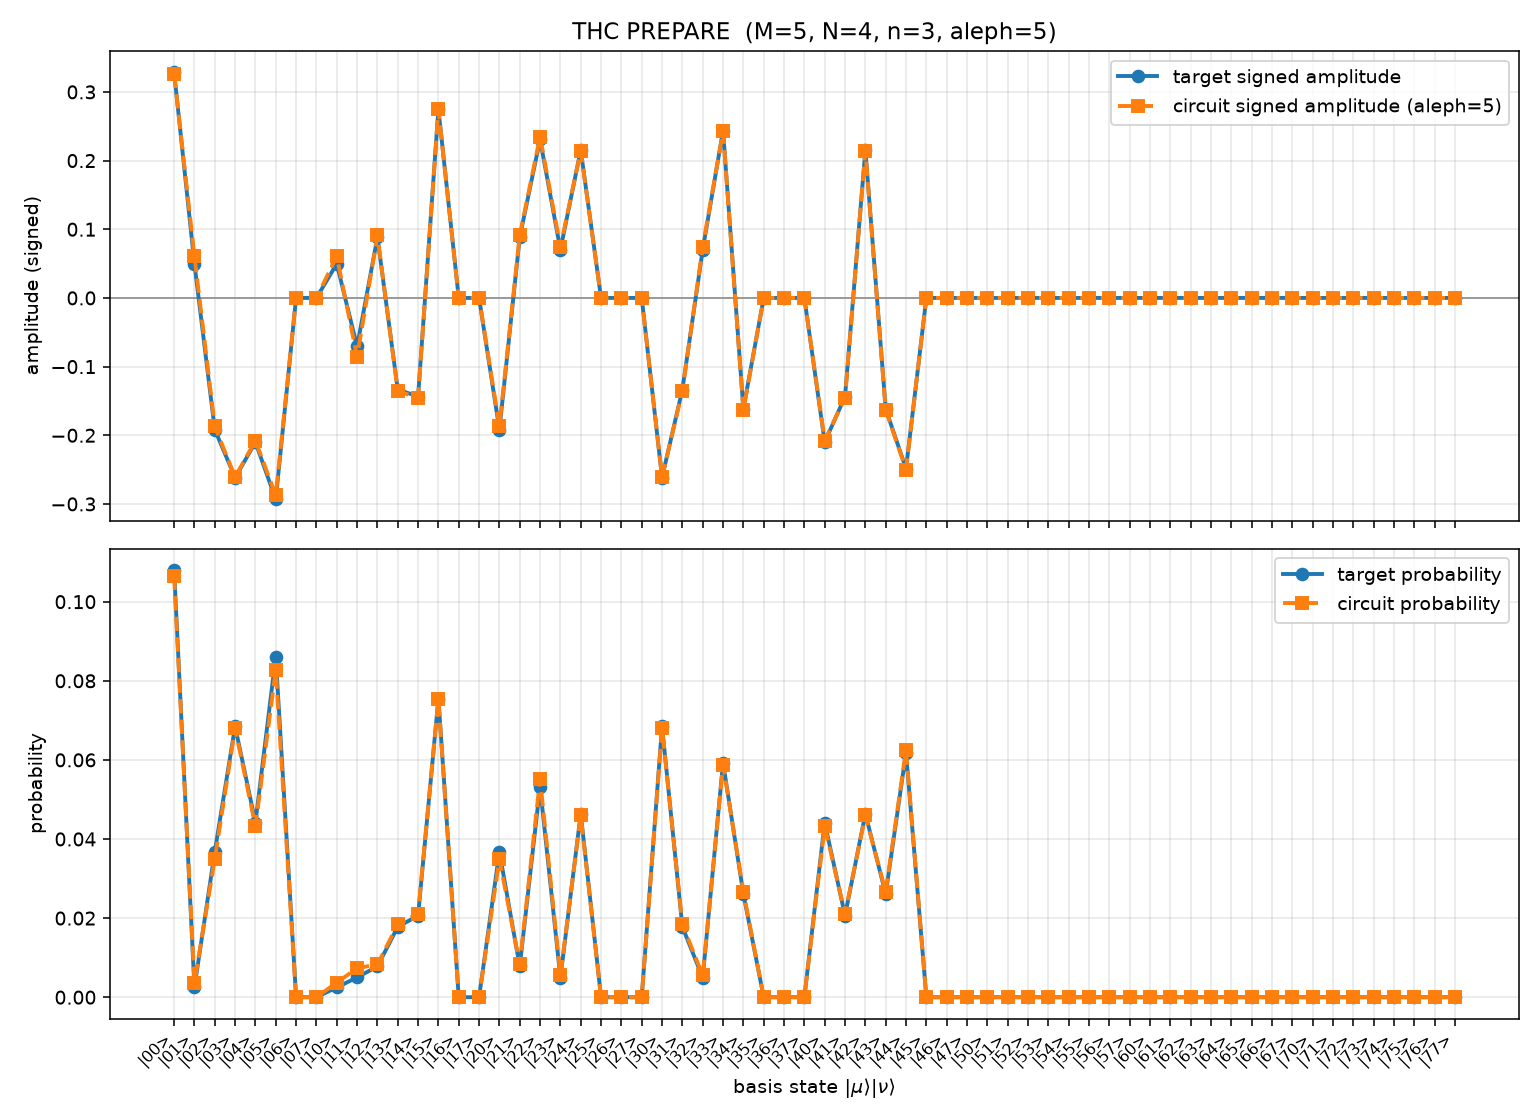
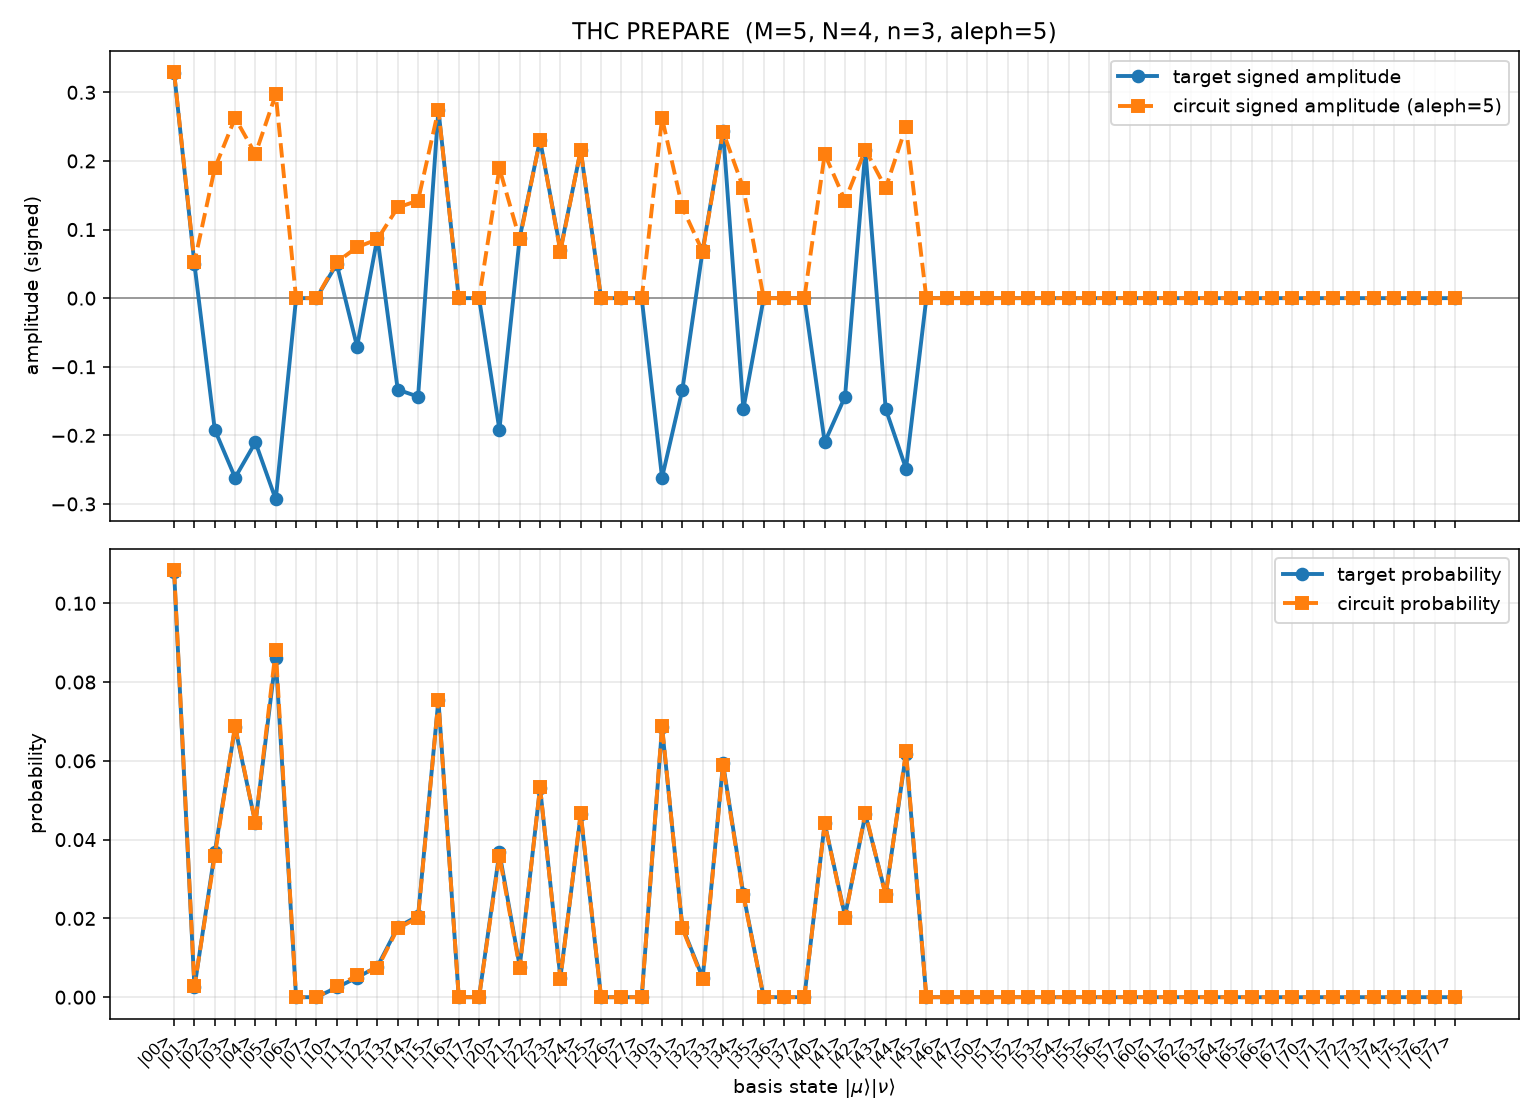
update

diff --git a/pennylane/labs/templates/alias_sampling_thc.py b/pennylane/labs/templates/alias_sampling_thc.py
@@ -14,6 +14,7 @@
 """Contains the ``PREPARE`` template for tensor hypercontraction (THC) qubitization."""
 
 import pennylane as qp
+from pennylane.labs.templates.alias_sampling import _build_alias_tables
 from pennylane.labs.templates.left_quantum_comparator import LeftQuantumComparator
 from pennylane.wires import Wires
 
@@ -67,8 +68,6 @@ def _build_thc_pairs(M, N, zeta, t_ell):
     n_half = N // 2
     d = n_half + M * (M + 1) // 2
 
-    # Guard the indexing below: ``zeta[mu, nu]`` and ``t_ell[ell]`` would otherwise
-    # raise a bare ``IndexError`` (or silently broadcast, for a 1-element array).
     zeta_shape = tuple(qp.math.shape(zeta))
     if zeta_shape != (M, M):
         raise ValueError(f"zeta must be of shape ({M}, {M}), got {zeta_shape}.")
@@ -127,7 +126,7 @@ def _lcu_signs(M, entries, weights):
 
 
 def _build_qrom_data(
-    M, N, zeta, t_ell, num_index_wires, aleph
+    M, N, zeta, t_ell, num_index_wires, aleph, include_sign=True
 ):  # pylint: disable=too-many-arguments,too-many-positional-arguments
     r"""Pack the alias tables into the bitstrings consumed by ``qp.QROM``.
 
@@ -156,7 +155,7 @@ def _build_qrom_data(
     """
     entries, weights = _build_thc_pairs(M, N, zeta, t_ell)
     probs = [abs(w) for w in weights]
-    signs = [-1 if w >= 0 else 1 for w in weights]  # To fix a global phase signs are changed here
+    signs = _lcu_signs(M, entries, weights) if include_sign else None
 
     # Classical alias matching on the magnitudes; aleph bits for the keep register.
     alt, keep = _build_alias_tables(probs, aleph)
@@ -215,11 +214,7 @@ def alias_sampling_thc_wires(M, N, aleph, include_sign=True):
           is the one-body sentinel flag to pass as ``edge_flag``
         * ``work_wires``: the minimum scratch register of :func:`alias_sampling_thc`.
           Additional wires are forwarded to the internal ``qp.QROM``, which uses them
-          for a ``SelectSwap`` decomposition. A few extra wires reduce the T-gate count
-          substantially, but the trade-off is not monotonic: ``qp.QROM`` consumes every
-          work wire it is given, and supplying many more than the width of a target
-          register can increase the count again. The optimum should be selected per
-          instance.
+          for a ``SelectSwap`` decomposition that lowers the T-gate count.
 
     **Example**
 
@@ -249,7 +244,7 @@ def alias_sampling_thc_wires(M, N, aleph, include_sign=True):
 
 
 def alias_sampling_thc(  # pylint: disable=too-many-arguments,too-many-positional-arguments
-    M, N, zeta, t_ell, mu_wires, nu_wires, edge_flag, work_wires, aleph
+    M, N, zeta, t_ell, mu_wires, nu_wires, edge_flag, work_wires, aleph, include_sign=True
 ):
     r"""Coefficient oracle for tensor hypercontraction (THC) qubitization via
     coherent alias (Walker) sampling.
@@ -354,7 +349,7 @@ def alias_sampling_thc(  # pylint: disable=too-many-arguments,too-many-positiona
             :math:`\mu`. Requires exactly ``n = ceil(log2(M + 1))`` wires
         nu_wires (WiresLike): the ``n`` wires storing the second THC index
             :math:`\nu`. Must have the same length as ``mu_wires``
-        edge_flag (int or str or Wires): the single wire holding the one-body sentinel flag
+        edge_flag (WiresLike): the single wire holding the one-body sentinel flag
             (true when the ``nu`` register is in state :math:`\lvert M \rangle`), as
             produced by :class:`~pennylane.labs.templates.SuperpositionTHC`
         work_wires (WiresLike): the auxiliary wires. At least
@@ -448,28 +443,34 @@ def alias_sampling_thc(  # pylint: disable=too-many-arguments,too-many-positiona
     # recomputed here.
     edge_flag = Wires(edge_flag)[0]
 
-    # Wire layout on the work register, in order (``b`` is the base of the flag block):
-    #   [0 : n_d]                                contiguous QROM address ``s``
-    #   [n_d]                                    QROM: ``sign`` of the original pair
-    #   [n_d + 1]                                QROM: ``alt_sign`` of the alternate pair
-    #   [n_d + 2 : n_d + n + 2]                  QROM: ``mu_alt``
-    #   [n_d + n + 2 : n_d + 2 n + 2]            QROM: ``nu_alt``
-    #   [n_d + 2 n + 2 : n_d + 2 n + aleph + 2]  QROM: ``keep`` threshold
-    #   [... : b + 2]                            uniform ``aleph``-bit sample ``sigma``
-    #   [b + 2], [b + 3], [b + 4]                alt_flag, swap_flag, alt_edge_flag
-    #   [b + 5 : ]                               comparator work wires, then any extra
-    #                                            wires forwarded to ``qp.QROM``
-    b = n_d + 2 * n + 2 * aleph
-    keep_thresh = work_wires[n_d + 2 * n + 2 : n_d + 2 * n + aleph + 2]
-    sample_reg = work_wires[n_d + 2 * n + aleph + 2 : b + 2]
+    # Wire layout on the work register, in order (``q`` is the base of the QROM index
+    # block, ``f`` the base of the flag block). The two sign wires are absent when
+    # ``include_sign=False``, and everything after them shifts down by two:
+    #   [0 : n_d]                        contiguous QROM address ``s``
+    #                                    ([0] is the spare high wire, see below)
+    #   [n_d]                            QROM: ``sign``, ends on the *selected* entry
+    #   [n_d + 1]                        QROM: ``alt_sign``, ends on the other entry
+    #   [q : q + n]                      QROM: ``mu_alt``
+    #   [q + n : q + 2 n]                QROM: ``nu_alt``
+    #   [q + 2 n : q + 2 n + aleph]      QROM: ``keep`` threshold
+    #   [f - aleph : f]                  uniform ``aleph``-bit sample ``sigma``
+    #   [f], [f + 1], [f + 2]            alt_flag, swap_flag, alt_edge_flag
+    #   [f + 3 : ]                       comparator work wires, then any extra wires
+    #                                    forwarded to ``qp.QROM``
+    q = n_d + n_sign
+    f = q + 2 * n + 2 * aleph
+    sign_wire = work_wires[n_d] if include_sign else None
+    alt_sign_wire = work_wires[n_d + 1] if include_sign else None
+    keep_thresh = work_wires[q + 2 * n : q + 2 * n + aleph]
+    sample_reg = work_wires[q + 2 * n + aleph : f]
     # ``alt_flag == 1`` means the inequality test failed, i.e. the original pair is
     # *discarded* and the QROM-loaded alternate is used instead.
-    alt_flag = work_wires[b + 2]
-    swap_flag = work_wires[b + 3]  # symmetrization (mu <-> nu) control
-    alt_edge_flag = work_wires[b + 4]  # QROM-loaded ``alt_edge`` bit
+    alt_flag = work_wires[f]
+    swap_flag = work_wires[f + 1]  # symmetrization (mu <-> nu) control
+    alt_edge_flag = work_wires[f + 2]  # QROM-loaded ``alt_edge`` bit
     # ``qp.QROM`` restores its work wires to |0>, so the comparator safely reuses them.
-    cmp_work = work_wires[b + 5 : b + aleph + 4]
-    qrom_work = work_wires[b + 5 :]
+    cmp_work = work_wires[f + 3 : f + aleph + 2]
+    qrom_work = work_wires[f + 3 :]
 
     # 1. Compute the contiguous QROM address s = mu + nu (nu + 1) / 2.
     _compute_contiguous_register(M, N, mu_wires, nu_wires, work_wires)
@@ -487,35 +488,39 @@ def alias_sampling_thc(  # pylint: disable=too-many-arguments,too-many-positiona
         work_wires=qrom_work,
     )
 
-    # 3. Draw a uniform aleph-bit sample sigma and test ``keep < sigma``: the original
-    #    pair is kept when the test fails, i.e. with probability (keep + 1) / 2 ** aleph.
+    # 3. Draw a uniform aleph-bit sample sigma and test ``keep <= sigma``: the original
+    #    pair is kept when the test fails, i.e. with probability keep / 2 ** aleph, which
+    #    is the normalization the classical ``keep`` table is built for (Eq. (39) of
+    #    `arXiv:1805.03662 <https://arxiv.org/abs/1805.03662>`_). This is the same
+    #    comparator used by :func:`~pennylane.labs.templates.alias_sampling`; a strict
+    #    ``"<"`` would keep with probability (keep + 1) / 2 ** aleph and bias every entry
+    #    towards the uniform distribution.
     for w in sample_reg:
         qp.Hadamard(wires=w)
 
-    LeftQuantumComparator(keep_thresh, sample_reg, alt_flag, work_wires=cmp_work, comparator="<")
+    LeftQuantumComparator(keep_thresh, sample_reg, alt_flag, work_wires=cmp_work, comparator="<=")
 
-    # 4. Phase the sign of the kept / alternate entry onto the amplitude: ``alt_sign``
-    #    when the alternate is used (alt_flag == 1), ``sign`` when the original pair is
-    #    kept (alt_flag == 0).
-    qp.CZ([alt_flag, work_wires[n_d + 1]])  # alt_sign
-    qp.X(alt_flag)
-    qp.CZ([alt_flag, work_wires[n_d]])  # sign
-    qp.X(alt_flag)
-
-    # 5. If the original pair is discarded, swap in the alternate (mu_alt, nu_alt)
-    #    and its alt_edge flag.
+    # 4. If the original pair is discarded, swap in the alternate (mu_alt, nu_alt), its
+    #    alt_edge flag and its sign bit.
     for i in range(n):
-        qp.CSWAP([alt_flag, mu_wires[i], work_wires[n_d + 2 + i]])
+        qp.CSWAP([alt_flag, mu_wires[i], work_wires[q + i]])
     for i in range(n):
-        qp.CSWAP([alt_flag, nu_wires[i], work_wires[n_d + 2 + n + i]])
+        qp.CSWAP([alt_flag, nu_wires[i], work_wires[q + n + i]])
     qp.CSWAP([alt_flag, edge_flag, alt_edge_flag])
+    if include_sign:
+        # The sign must reach ``SELECT`` as a register, not as a phase on the amplitude:
+        # a phase applied here would show up once in the ket and once in the bra of
+        # ``<0| PREPARE^dag SELECT PREPARE |0>`` and square to +1. This swap leaves
+        # ``sign_wire`` holding the sign bit of whichever entry was actually selected,
+        # ready for the caller's single ``qp.Z`` between ``PREPARE`` and ``SELECT``.
+        qp.CSWAP([alt_flag, sign_wire, alt_sign_wire])
 
-    # 6. Uncompute the inequality test. The comparator inputs (``keep_thresh`` and
-    #    ``sample_reg``) are untouched by step 5, so the same ``comparator="<"`` returns
+    # 5. Uncompute the inequality test. The comparator inputs (``keep_thresh`` and
+    #    ``sample_reg``) are untouched by step 4, so the same ``comparator="<="`` returns
     #    ``alt_flag`` and ``cmp_work`` to |0>; any other comparator would leave
     #    ``alt_flag`` entangled with the sample register.
     qp.adjoint(LeftQuantumComparator)(
-        keep_thresh, sample_reg, alt_flag, work_wires=cmp_work, comparator="<"
+        keep_thresh, sample_reg, alt_flag, work_wires=cmp_work, comparator="<="
     )
     qp.H(swap_flag)
 
